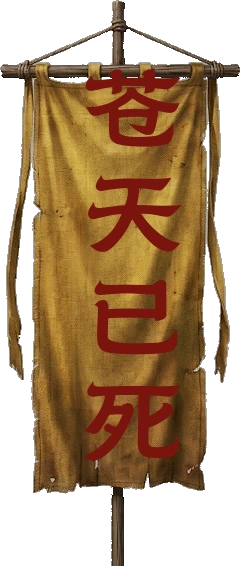
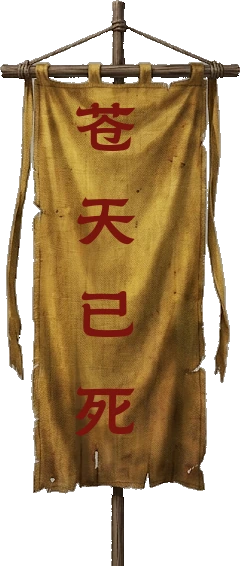
调整Boss旗帜与战斗特效

diff --git a/game.js b/game.js
@@ -490,7 +490,9 @@ function chargedAttack() {
     if (z.dead) continue;
     const dx = (z.x - h.x) * h.f, dy = z.y - h.y;
     if (Math.abs(dy) > 26) continue;
-    if (weapon === 'staff' ? (Math.hypot(dx, dy) < R + (z.T.w || 0)) : (dx > -14 && dx < R + (z.T.w || 0))) {
+    const rear = dx < 0 && Math.abs(dy) < -dx * 1.732;
+    const inFan = weapon === 'staff' ? (!rear && Math.hypot(dx, dy) < R + (z.T.w || 0)) : (dx > -14 && dx < R + (z.T.w || 0));
+    if (inFan) {
       const dmg = weapon === 'staff' ? 1.6 : 2.4;
       hit(z, dmg * R_('dmg'), weapon === 'staff' ? 140 : 90, h.f, weapon === 'staff', weapon === 'hammer' ? .5 : 0, .35, weapon === 'hammer');
     }
@@ -577,10 +579,10 @@ function zUpdate(z, dt) {
     z.qi += dt;
     if (z.qi >= .62) {
       z.qi = null;
-      qiFx.push({ x: z.x, y: z.y, f: z.f, t: 0, T: .42 });
+      qiFx.push({ x: z.x, y: z.y, f: z.f, t: 0, T: .28 });
       sfx('enemySwing', z.x); shake = Math.max(shake, .18);
       const hx = hero.x - z.x;
-      if (hero.inv <= 0 && Math.abs(hx) < 130 && Math.abs(hero.y - z.y) < 30 && hx * z.f > -14) dmgHero(2, { x: z.x });
+      if (hero.inv <= 0 && Math.abs(hx) < 46 && Math.abs(hero.y - z.y) < 18 && hx * z.f > -10) dmgHero(2, { x: z.x });
     }
   }
   if (z.air) { airStep(z, dt); return; }
@@ -781,8 +783,9 @@ function draw() {
   if (zs.some(z => z.T && z.T.boss)) {
     const im = IMG['ui_boss_flag'];
     if (im && im.complete) {
-      const fh2 = 120, fw2 = fh2 * im.width / im.height;
-      const fx2 = Math.min(M.W - 26, cam.x + vw - 30), fy2 = M.bot - 4;
+      const fh2 = 150, fw2 = fh2 * im.width / im.height;
+      const fx2 = Math.min(M.W - 24, cam.x + vw - 26);
+      const fy2 = M.top + 6 + fh2;
       ctx.imageSmoothingEnabled = true;
       ctx.drawImage(im, Math.round(fx2 - fw2 / 2), Math.round(fy2 - fh2), fw2, fh2);
       ctx.imageSmoothingEnabled = false;
@@ -810,21 +813,37 @@ function draw() {
   // 蓄力重击的冲击环
   for (const q of chargeFx) {
     const k = Math.min(1, q.t / q.T), R2 = 20 + 90 * k, a2 = 1 - k;
-    ctx.save(); ctx.translate(q.x, q.y - 12);
+    ctx.save(); ctx.translate(q.x, q.y - 12); ctx.scale(q.f, 1);
     ctx.strokeStyle = q.w === 'hammer' ? 'rgba(255,190,90,' + (.9 * a2) + ')' : 'rgba(240,250,255,' + (.9 * a2) + ')';
     ctx.lineWidth = 4 * (1 - k) + 1;
-    ctx.beginPath(); ctx.ellipse(0, 0, R2, R2 * .42, 0, 0, 7); ctx.stroke();
+    ctx.beginPath();
+    if (q.w === 'staff') ctx.arc(0, 0, R2, -2.094, 2.094);
+    else ctx.ellipse(0, 0, R2, R2 * .42, 0, 0, 7);
+    ctx.stroke();
     ctx.restore();
   }
-  // 老卒的白色扇形剑气
+  // 老卒的月牙剑气：细弧、双层冷白刀光与短拖尾
   for (const q of qiFx) {
-    const k = Math.min(1, q.t / q.T), R = 30 + 108 * k, a = 1 - k;
+    const k = Math.min(1, q.t / q.T), R = 16 + 32 * k, a = 1 - k;
+    const lw = 9 * (1 - k) + 1;
     ctx.save(); ctx.translate(q.x, q.y - 14); ctx.scale(q.f, 1);
-    ctx.beginPath(); ctx.arc(0, 0, R, -.95, .95); ctx.lineTo(0, 0); ctx.closePath();
-    ctx.fillStyle = 'rgba(226,240,255,' + (.18 * a) + ')'; ctx.fill();
-    ctx.strokeStyle = 'rgba(255,255,255,' + (.92 * a) + ')'; ctx.lineWidth = 3; ctx.stroke();
-    ctx.beginPath(); ctx.arc(0, 0, R * .88, -.78, .78);
-    ctx.strokeStyle = 'rgba(198,228,255,' + (.45 * a) + ')'; ctx.lineWidth = 7; ctx.stroke();
+    for (const offset of [-.25, .25]) {
+      ctx.beginPath(); ctx.arc(0, 0, R, -.75 + offset, .75 + offset);
+      ctx.strokeStyle = 'rgba(240,248,255,' + (.28 * a) + ')';
+      ctx.lineWidth = Math.max(1, lw * .45); ctx.stroke();
+    }
+    ctx.beginPath(); ctx.arc(0, 0, R, -.75, .75);
+    ctx.strokeStyle = 'rgba(210,235,255,' + (.75 * a) + ')';
+    ctx.lineWidth = lw + 3; ctx.stroke();
+    ctx.beginPath(); ctx.arc(0, 0, R, -.75, .75);
+    ctx.strokeStyle = 'rgba(255,255,255,' + a + ')';
+    ctx.lineWidth = lw; ctx.stroke();
+    if (q.t < .12) {
+      const impact = 10 * (q.t / .12);
+      ctx.beginPath(); ctx.arc(q.f * 8, 0, impact, 0, Math.PI * 2);
+      ctx.strokeStyle = 'rgba(255,255,255,' + (1 - q.t / .12) + ')';
+      ctx.lineWidth = 2; ctx.stroke();
+    }
     ctx.restore();
   }
   // 火

diff --git a/tools/make_boss_flag.py b/tools/make_boss_flag.py
@@ -1,0 +1,38 @@
+from pathlib import Path
+import numpy as np
+from PIL import Image, ImageDraw, ImageFont
+
+root = Path(__file__).resolve().parents[1]
+source = root / 'art' / 'gemini' / 'boss_flag.png'
+output = root / 'art' / 'ui' / 'boss_flag.webp'
+font_path = root / 'tools' / 'fonts' / 'LinHaiLiShu-flag.ttf'
+
+rgb = np.asarray(Image.open(source).convert('RGB'))
+spread = rgb.max(axis=2).astype(np.int16) - rgb.min(axis=2).astype(np.int16)
+alpha = np.where(spread < 14, 0, 255).astype(np.uint8)
+rgba = np.dstack((rgb, alpha))
+ys, xs = np.nonzero(alpha)
+if len(xs) == 0:
+    raise RuntimeError('去除灰底后没有剩余图像内容')
+img = Image.fromarray(rgba).crop((xs.min(), ys.min(), xs.max() + 1, ys.max() + 1))
+W, H = img.size
+font = ImageFont.truetype(str(font_path), int(W * 0.26))
+draw = ImageDraw.Draw(img)
+chars = '苍天已死'
+center_x = W * 0.44
+# 原图裁切框包含旗尖和下垂旗杆；首字下移到横杆与绳索以下的布面上。
+first_top = H * 0.18
+step = H * 0.67 / 4
+for i, ch in enumerate(chars):
+    box = draw.textbbox((0, 0), ch, font=font)
+    glyph_w = box[2] - box[0]
+    x = center_x - glyph_w / 2 - box[0]
+    y = first_top + step * i - box[1]
+    draw.text((round(x), round(y)), ch, font=font, fill=(122, 20, 14, 255))
+    ink = draw.textbbox((round(x), round(y)), ch, font=font)
+    cloth_left, cloth_right = W * 0.14, W * 0.88
+    if ink[0] < cloth_left + 8 or ink[2] > cloth_right - 8:
+        raise RuntimeError(f'文字「{ch}」超出旗面左右 8 px 安全区：{ink}, 旗面约 {cloth_left:.0f}..{cloth_right:.0f}')
+output.parent.mkdir(parents=True, exist_ok=True)
+img.save(output, 'WEBP', quality=92, method=6)
+print(f'生成 {output.relative_to(root)}：{W}×{H}，字号 {font.size}，文字安全边距至少 8 px')
